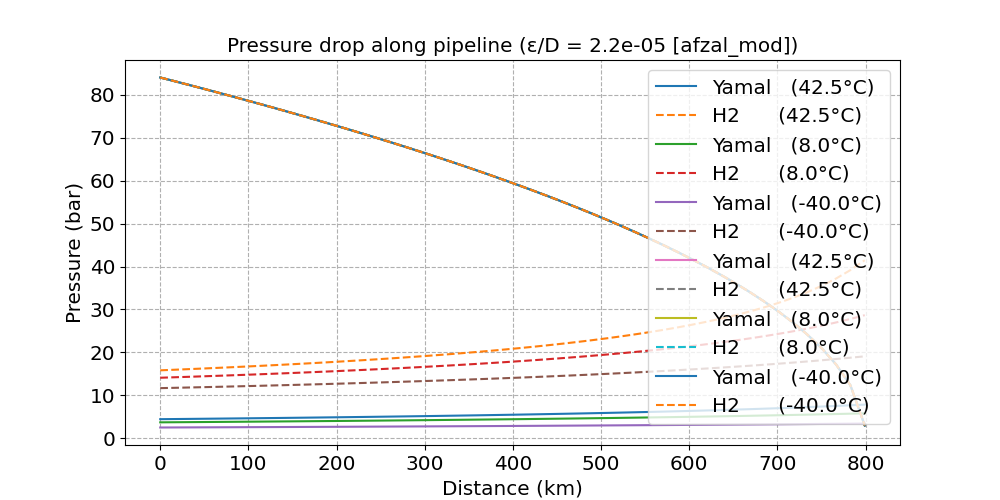
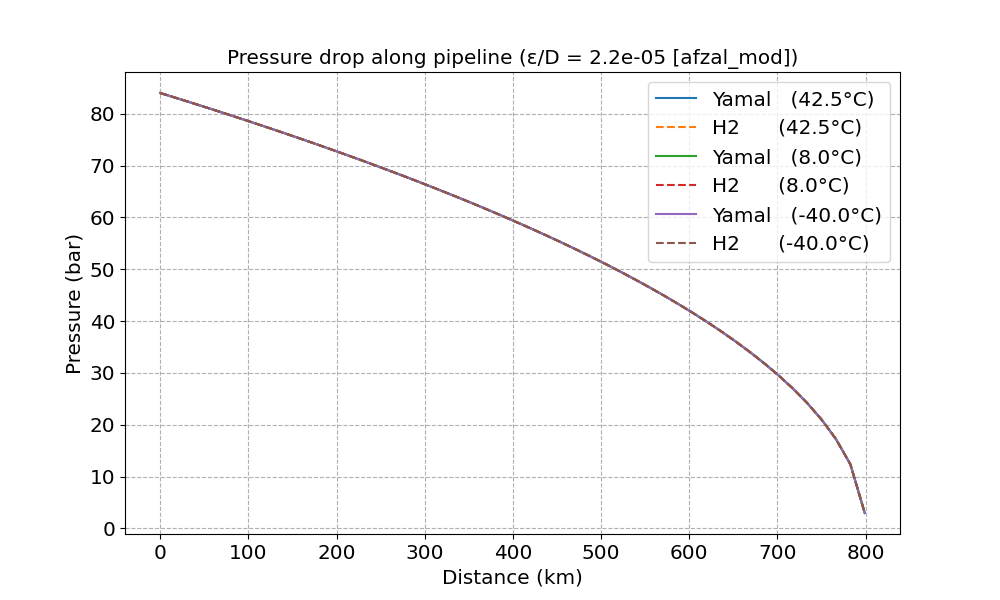
Linepack work finished this step

diff --git a/moody.py b/moody.py
@@ -457,6 +457,7 @@ def plot_pt_diagram(title, filename, plot="loglog", fff=colebrook, gradient=Fals
         plt.grid(True, which='both', ls='--')
         plt.legend()
         plt.savefig(filename)
+        plt.close()
 
 @memoize
 def kg_from_GW(g, Q_GW):
@@ -473,7 +474,7 @@ def kg_from_GW(g, Q_GW):
     ck = Q_ck - Q_GW
     if abs(ck) > 1e-12:
          print(f"***{g:7} {Q_GW=:9.2f} [{ck=}]")
-    print(f"-- {g:7} {Q_GW=:9.2f} GW Q_moles={Q_moles*1e-3:7.3f} kmol/s  {Q_kg=:9.5f} kg/s  ")
+    #print(f"-- {g:7}{Q_GW=:10.4f} GW Q_moles={Q_moles*1e-3:8.4f} kmol/s  {Q_kg=:9.5f} kg/s  ")
     
     return Q_kg
 
@@ -500,10 +501,25 @@ def get_v_from_Q(g, Tt, Pp, Qh, D):
     ϱ = get_density(g, Pp, Tt) 
     Qv = Qg / ϱ # in m³/s
     A = get_A(D)
-    
     v = Qv / A # m/s
     #print(f"-- {g:7}  {P=:9.1f} bar {v=:9.5f} m/s  {ϱ=:9.5f} kg/m³ {Qg=:9.5f} kg/s {Qv=:9.5f} m³/s")
     return v
+
+@memoize
+def get_Q_from_v(g, Tt, Pp, v, D):
+    # v (m/s)
+    # Q (GW)
+    A = get_A(D)
+    ϱ = get_density(g, Pp, Tt) 
+    Qv = v * A
+    Qg = Qv *  ϱ
+    Qh = GW_from_kg(g, Qg)
+    
+    v_ck = get_v_from_Q(g, Tt, Pp, Qh, D)
+    ck = v_ck - v
+    if abs(ck) > 1e-12:
+         print(f"***{g:7} {v=:9.2f} m/s [{ck=}]")    
+    return Qh # GW
     
 @memoize
 def get_A(D):
@@ -690,7 +706,7 @@ def LPM(g, T, P, L_seg, D, Qh):
     But perhaps GW is the wrong thing to keep constant, maybe all for same gas velocity ? 
     At each pressure, maintaining the same MJ/s for Ng at 5 m/s ?
     """
-    A = np.pi*D**2/4 # cross-section area
+    A = get_A(D)
     v0 = get_v_from_Q(g, T, P, Qh, D)
     ϱ0 = get_density(g, P, T) 
     ϱv0 = ϱ0 * v0
@@ -698,66 +714,77 @@ def LPM(g, T, P, L_seg, D, Qh):
     Vm = get_Vm(g, P, T) # m³/mol
     _, _, hc_g = get_Hc(g, T) # MJ/mol
     hhvv = hc_g / Vm # MJ/m³
-    V_seg = L_seg * A
+    V_seg = L_seg * A # velocity
     E_seg = V_seg * hhvv *1e6 # J = Ws
     lpm = E_seg/(Qh*1e9) # Ws / W
     #print(f"++ {g:5} ({T-T273:5.1f}°C) {ϱ0=:8.4f} kg/m³  {v0=:8.4f} m/s  {ϱv0=:8.3f} kg/s.m² {hhvv=:8.3f} MJ/m³ Vm{Vm*1000:8.3f} m³/kmol")
+    lpm_km = lpm/(L_seg * 1e-3)
 
-    print(f"+++{g:5} ({T-T273:5.1f}°C) {P=:7.1f} bar V_seg={V_seg/1e3:7.1f} 1000.m³ lpm={lpm:8.1e} s  ={lpm/3600:7.3f} hours")
+    #print(f"+++{g:5} ({T-T273:5.1f}°C) {P=:7.1f} bar V_seg={V_seg/1e3:9.4f} 1000.m³ lpm={lpm:8.1e} s  ={lpm/3600:7.3f} hours  lpm/km={lpm_km:8.1f} s/km")
 
-    return lpm
+    return lpm # in seconds
 
 def plot_lpm():
-    # Plot LPM  for pure hydrogen and natural gases
-    pressures = np.linspace(1, 100, 5)  # bar
+    """Plot LPM  for pure hydrogen and natural gases
+    Standardise on 4 m/s for NG, and equivalent energy velocity for H2
+    """
+    def get_Q(g, p, T):
+        # Normalises to same Q (GW) as for NG v=4m/s at this T,P
+        v_ng = 4 # m/s
+        Q_NG = get_Q_from_v("NG", T, p, v_ng, D)
+        
+        return Q_NG
+         
+    pressures = np.linspace(8, 80, 5)  # bar
     plt.figure(figsize=(10, 5))
+    
     for g in ['NG', 'H2']:
-        L_seg = 1 # km
-        D = 0.11 # 110 mm
-        Q20 = 0.020 # 20 MW as this is in GW
-        for T in [ T8C]:
-        #for T in [T230, T8C, T25C, T50C]:
-            for p in pressures:
-                vg = get_v_from_Q(g, T, p, Q20, D)
-                print(f"|| {g:7} {vg=:9.1e} m/s")
+        L_seg = 10  # km
+        D = 0.2 # 200 mm
+        v = 4 # m/s
+        #for T in [ T8C]:
+        for T in [T230, T8C, T25C, T50C]:
+            # for p in pressures:
+                # v_gas = get_v_from_Q(g, T, p, get_Q(g,p), D)
+                # print(f"|| {g:7} {v_gas=:9.4f} m/s")
             label=f"{T-T273:4.0f}°C"
             txt = f"{g} {label}"
-            p_lpm = [LPM(g, T, p, L_seg, D, Q20) for p in pressures]
+            p_lpm = [LPM(g, T, p, L_seg*1e3, D, get_Q(g, p, T)) for p in pressures]
             
             #print(f"Velocity ratio min:{v_ratio[0]:.3f} max:{vr_max:.3f} at  {T-T273:4.1f}°C")
             plt.plot(pressures, p_lpm,  label=txt, **plot_kwargs(g))
 
-    plt.title(f'Linepack Metric vs Pressure')
+    plt.title(f'Linepack Metric - for NG v ={v:2.0f} m/s ({L_seg} km, {D*1000:.0f} mm dia.)')
     plt.xlabel('Pressure (bar)')
-    plt.ylabel('Linepack Metric (hours/km)')
+    plt.ylabel('Linepack Metric (seconds)')
     plt.legend()
     plt.grid(True)
 
-    plt.savefig("peng_lpm.png")
+    plt.savefig("pipe_lpm.png")
     plt.close()
 
     # Plot LPM  RATIO hydrogen : natural gases
-    if False:
+    if True:
         pressures = np.linspace(6, 80, 5)  # bar
         plt.figure(figsize=(10, 5))
         for g in ['NG']:
-            L_seg = 1 # km
-            D = 0.11 # 110 mm
-            Q20 = 0.020 # 20 MW as this is in GW
+            L_seg = 10 # km
+            Lm = L_seg * 1e3 # m
+            D = 0.2 # 200 mm
             #for T in [ T8C]:
             for T in [ T25C, T8C, T273]:
                 label=f"{T-T273:4.0f}°C"
                 txt = f"{g} {label}"
-                p_lpm = [LPM('H2', T, p, L_seg, D, Q20)/LPM(g, T, p, L_seg, D, Q20)  for p in pressures]
+                p_lpm = [LPM('H2', T, p, Lm, D, get_Q(g,p,T))/LPM(g, T, p, Lm, D, get_Q(g,p,T))  for p in pressures]
                 plt.plot(pressures, p_lpm,  label=label, **plot_kwargs(g))
 
-        plt.title(f'Linepack Metric Ratio H2/NG vs Pressure')
+        plt.title(f'Linepack Metric Ratio H2/NG - for NG v ={v:2.0f} m/s ({L_seg} km, {D*1000:.0f} mm dia.)')
         plt.xlabel('Pressure (bar)')
         plt.ylabel(f'Linepack Metric ratio H2/NG')
         plt.legend()
         plt.grid(True)
 
-        plt.savefig("peng_lpm_ratio.png")
+        plt.savefig("pipe_lpm_ratio.png")
         plt.close()
     
 def plot_pipeline(title_in, output, plot="linear", fff=afzal_mod):
@@ -803,6 +830,7 @@ def plot_pipeline(title_in, output, plot="linear", fff=afzal_mod):
         plt.grid(True, which='both', ls='--')
         plt.legend()
         plt.savefig(filename)
+        plt.close()
         # print(f"*** {filename} ***")
         
     def print_finals():
@@ -835,7 +863,7 @@ def plot_pipeline(title_in, output, plot="linear", fff=afzal_mod):
     P0 = 84 # bar Yamal
     # 33 billion m³(STP) / year says Gazprom, but maybe not for this bit.
     Qstp = 2019950 / 3600 # m³(STP) /hour => 561 m³(STP)/s 
-    print(f"\nYAMAL PIPELINE Qv={Qstp:9.4f} m³(STP) /s")
+    print(f"\nYAMAL PIPELINE Qv={Qstp:9.4f} m³(STP) /s {fff}")
     ϱstp = get_density('Yamal', Atm, T273+15) # STP about 0.7 kg/m³
     ϱ = get_density('Yamal', P0, T273+42.5) # kg/m³, about 58 kg/m³
     Qv = Qstp * ϱstp / ϱ  # m³/s  actually at 84 bar
@@ -924,8 +952,6 @@ def plot_pipeline(title_in, output, plot="linear", fff=afzal_mod):
         plt.ylabel('Gas velocity (m/s)')
         saveit("Gradient of " + title,filename)
 
-        # Now plot the Linepack metric LPM
-
         #
         # Now the SQRT fudge to see what sort of function it looks like - - -- - - - -- - --- -- -- --
         #
@@ -990,6 +1016,7 @@ def plot_pipeline(title_in, output, plot="linear", fff=afzal_mod):
         saveit(title,filename)
         
         print_finals()
+ 
         
 def plot_diagram(title, filename, plot="loglog", fff=colebrook, gradient=False, h2=False, w2=False):
     """Calculate the friction factor for each relative roughness,
@@ -1066,6 +1093,7 @@ def plot_diagram(title, filename, plot="loglog", fff=colebrook, gradient=False, 
     plt.grid(True, which='both', ls='--')
     plt.legend()
     plt.savefig(filename)
+    plt.close()
 
 def export_f_table():
     """Produce a text file with f= f(Re)"""
@@ -1136,9 +1164,8 @@ plot_pt_diagram('Ratio of friction loss (power) between H2 and NG', 'w2_h2_ratio
 T = T250
 P = 30
 
-
 # --- PLOT PRESSURE _ DISTANCE along PIPELINE
-plot_pipeline("Pressure drop along pipeline", "pipe", plot="linear", fff=[afzal_mod, colebrook])
+plot_pipeline("Pressure drop along pipeline", "pipe", plot="linear", fff=[afzal_mod])
 
 # Plot enlarged diagrams
 
